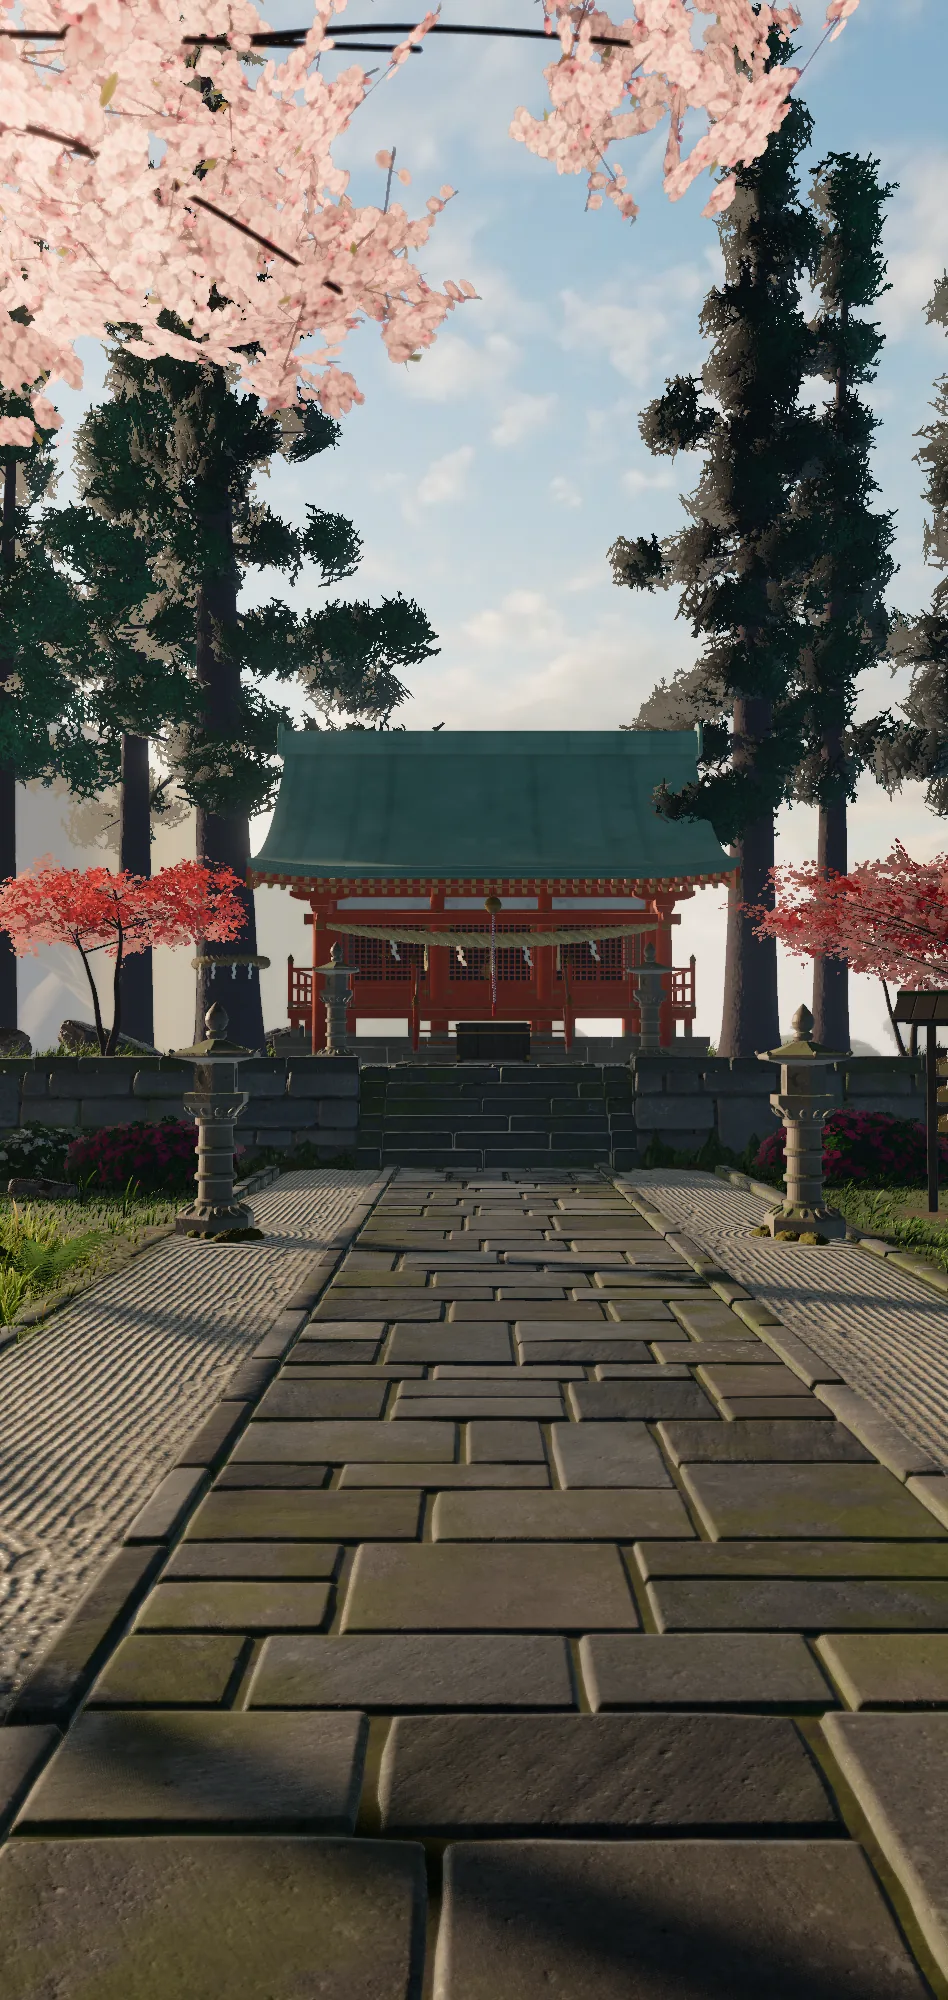
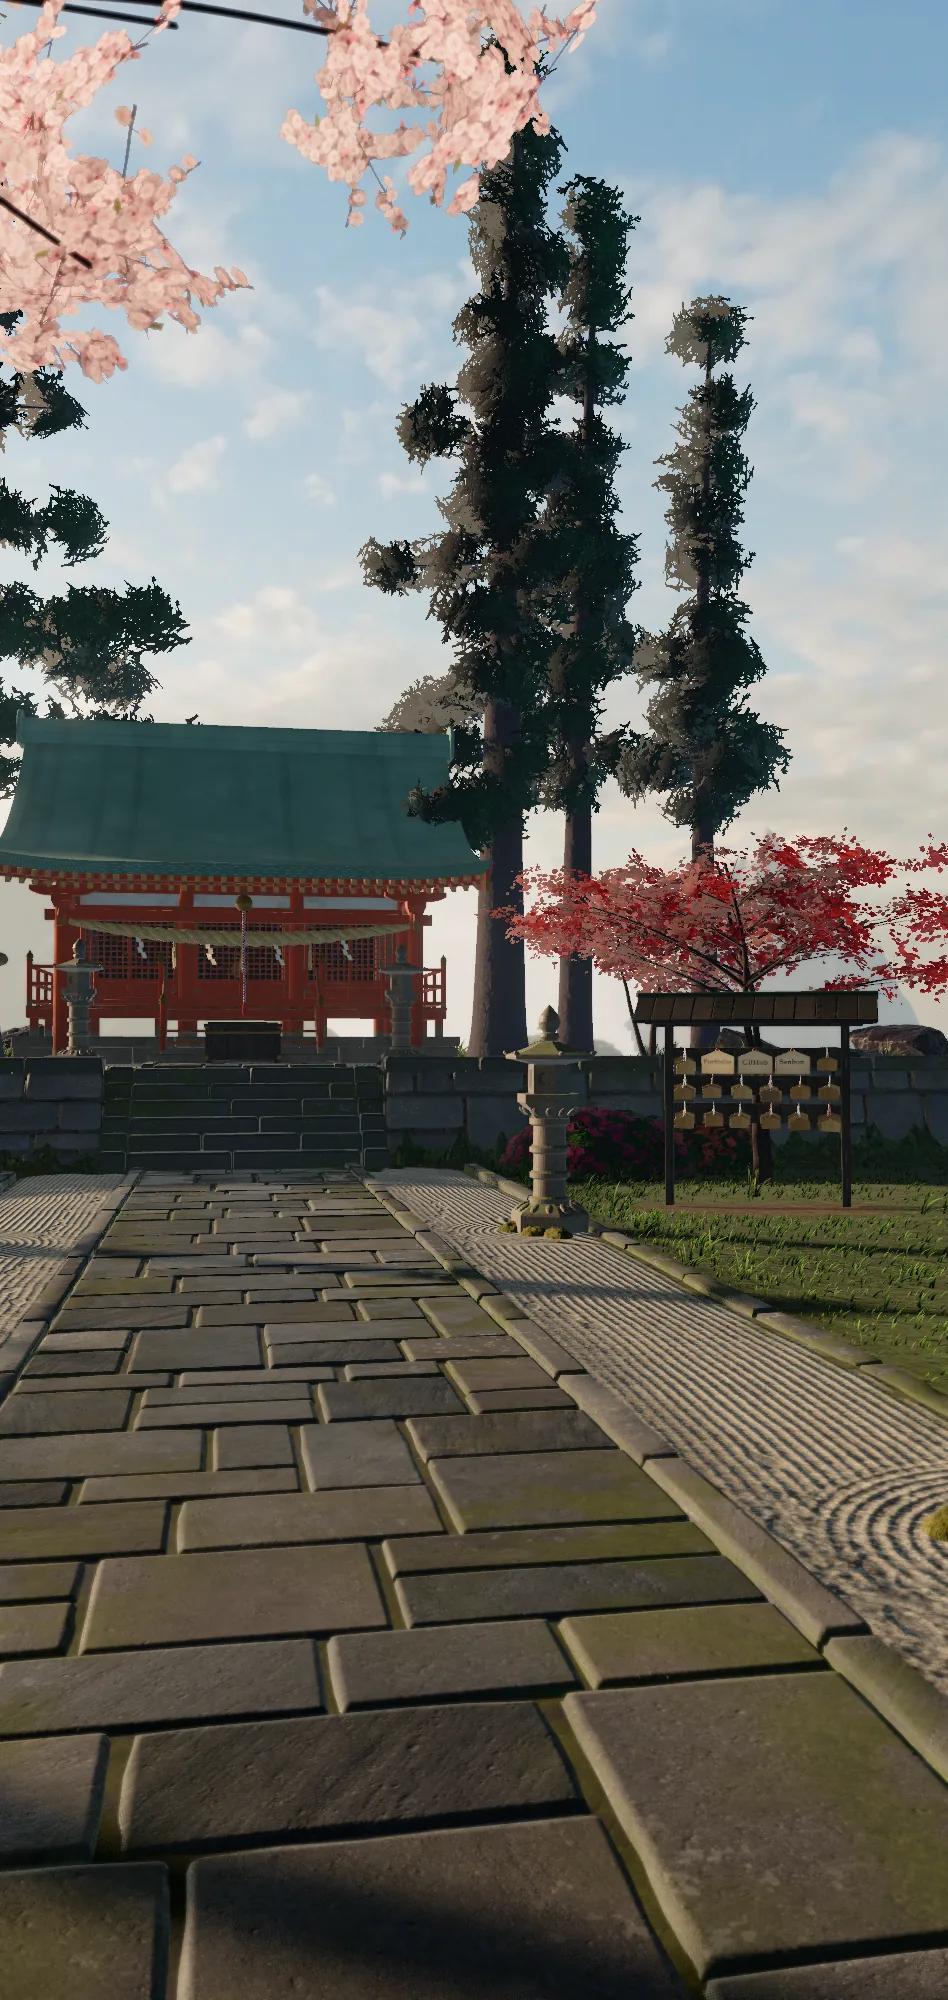
Turn the start view toward the rack on tall screens

diff --git a/src/realm/look.ts b/src/realm/look.ts
@@ -32,6 +32,13 @@ const view = (x: number, y: number, z: number, yaw: number, pitch: number, focus
 // at the centre the head turns without end, round and round
 export const CENTRE = view(-0.3, 1.62, 9.6, Math.PI * 2, 0.03, 20, Infinity, 0.24)
 
+// A tall screen sees 38 degrees across, too little for both the hall and the
+// plaque rack 22 degrees to the right of the path, so there the centre view
+// starts turned a little toward the rack: the whole rack is in frame and the
+// hall still is. One turn for every tall screen, so one picture of the start
+// view (the tall poster) matches them all.
+export const PORTRAIT_TURN = 0.18
+
 export type Place = 'rack' | 'pond' | 'shrine'
 
 // the close views: the plaque rack as it is framed at the end of the old
@@ -73,6 +80,8 @@ export class Look {
   private tilt = 0
   private tilted = 0
   private reduced: boolean
+  // radians the centre view is turned to the right, on tall screens
+  centreTurn = 0
 
   constructor(reduced: boolean) {
     this.reduced = reduced
@@ -140,7 +149,7 @@ export class Look {
     this.dragged += (this.drag - this.dragged) * ease
     this.tilted += (this.tilt - this.tilted) * ease
     // and a breath of parallax, small enough that a pointed place stays put
-    const yaw = v.yaw - this.aimed.x * 0.04 - this.dragged
+    const yaw = v.yaw - (this.place ? 0 : this.centreTurn) - this.aimed.x * 0.04 - this.dragged
     const pitch = v.pitch + this.aimed.y * 0.025 + this.tilted
     if (this.flight >= 1) {
       this.pose.position.copy(v.position)

diff --git a/src/realm/realm.ts b/src/realm/realm.ts
@@ -4,7 +4,7 @@ import { buildSky, sunKnown, type SkyResult } from './sky'
 import { prefetchScans } from './rocks'
 import { realmUniforms, SUN_DIRECTION } from './atmosphere'
 import { prefetchSets, setMaxAnisotropy, upgradeTextures } from './assets'
-import { Look, heading, type Place } from './look'
+import { Look, PORTRAIT_TURN, heading, type Place } from './look'
 import { pondSdf, POND_LEVEL } from './layout'
 import { Ambience } from './ambience'
 import { GpuTimer } from './gpuTimer'
@@ -427,6 +427,8 @@ export class Realm {
     this.baseFov = Math.min(v, 72)
     this.camera.fov = this.baseFov
     this.camera.updateProjectionMatrix()
+    // the same screens that get the tall poster (see POSTERS in Sando.tsx)
+    this.look.centreTurn = this.camera.aspect < 17 / 18 ? PORTRAIT_TURN : 0
   }
 
   // add a part and refresh the shadow map so it casts
